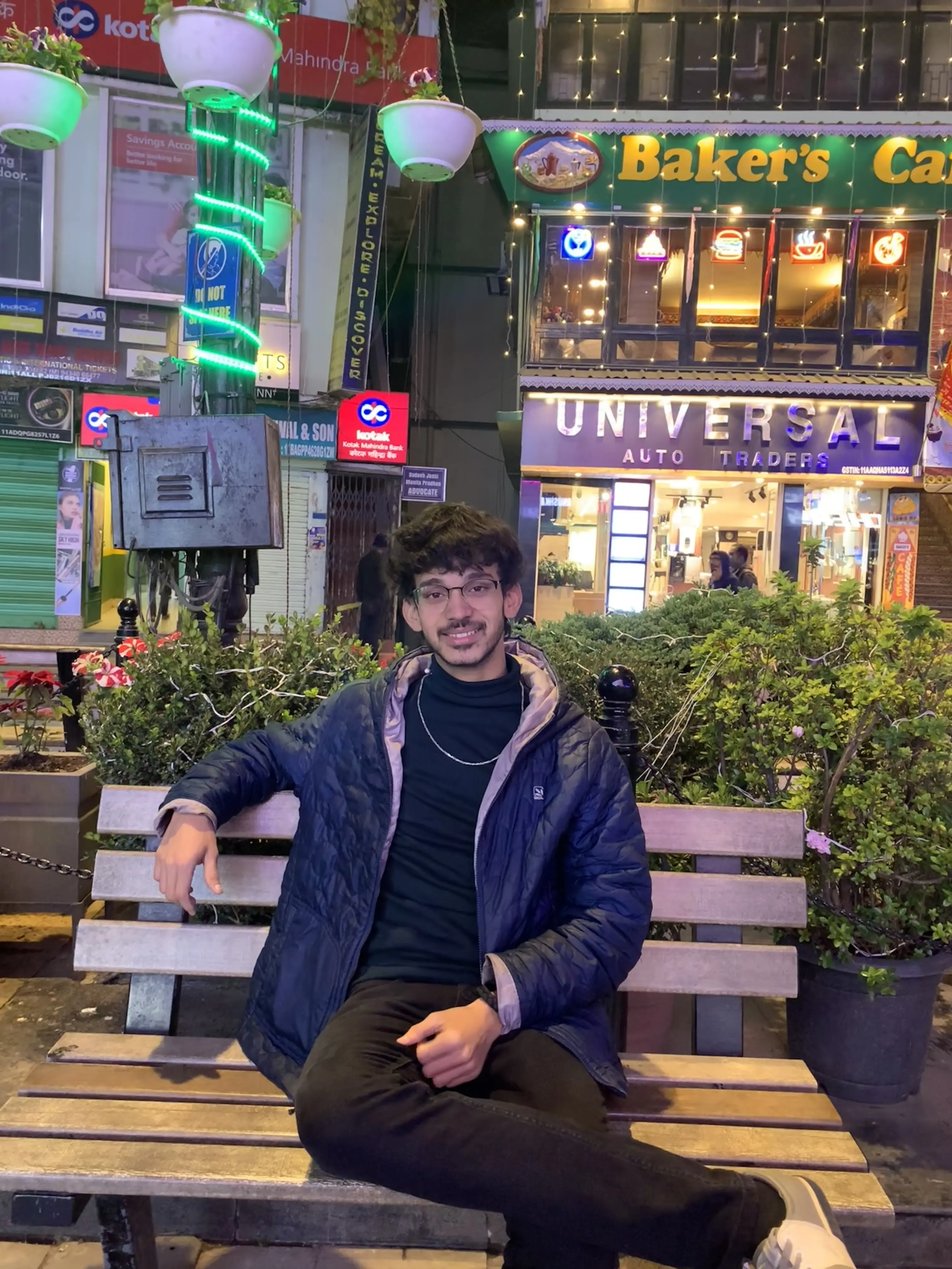
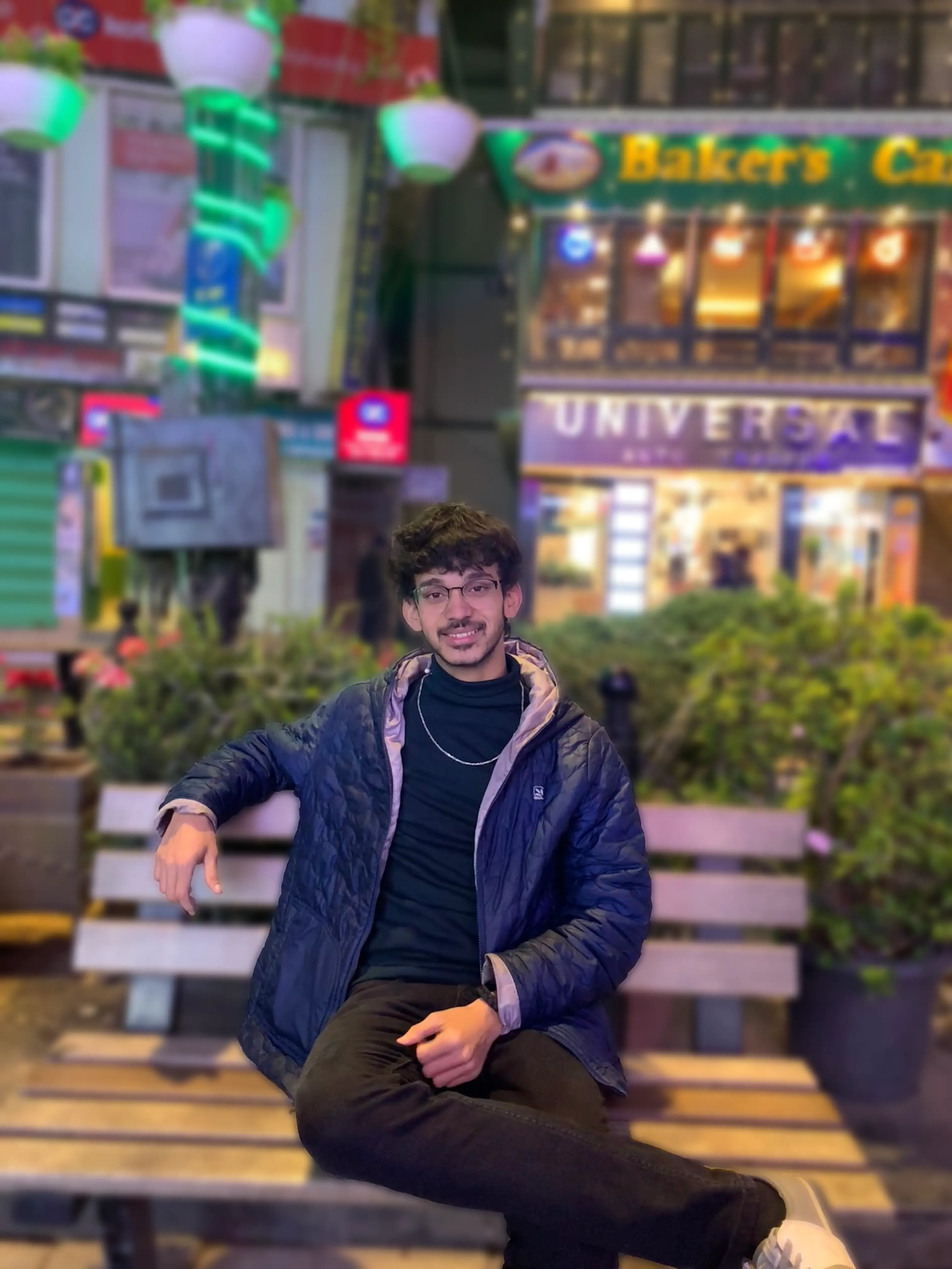
fix : photo bulrr

diff --git a/components/Footer.tsx b/components/Footer.tsx
@@ -26,7 +26,7 @@ function Footer() {
                 </p>
             </div>
             <div className=" flex flex-col dark:text-white/60 text-black/60">
-                <div className=" flex-col text-right gap-3 flex-1 sm:hidden lg:flex">
+                <div className=" flex-col text-right gap-3 flex-1 hidden lg:flex">
                     <Link href="/About" className="footer_links">
                         About
                     </Link>
